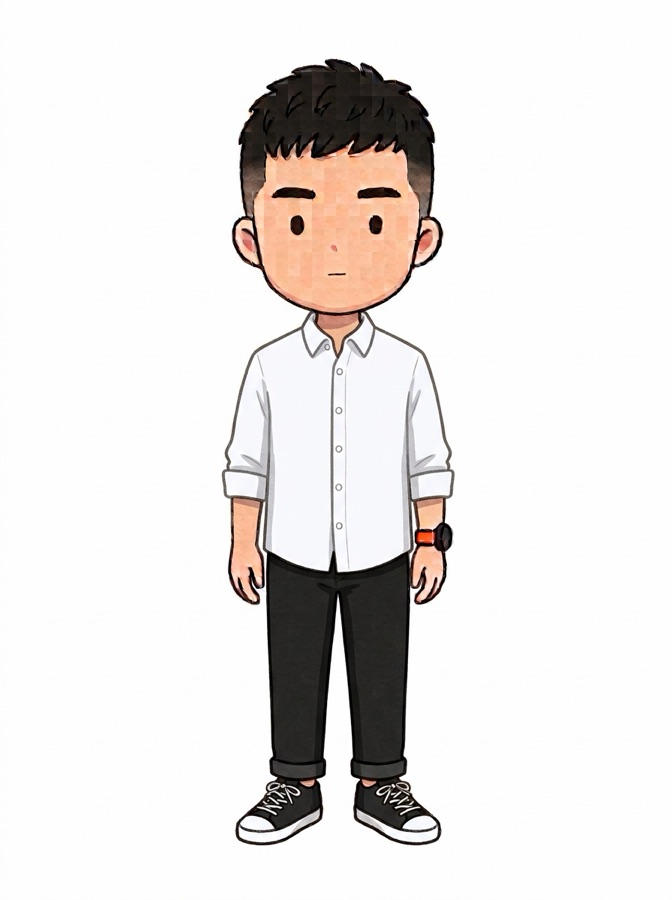
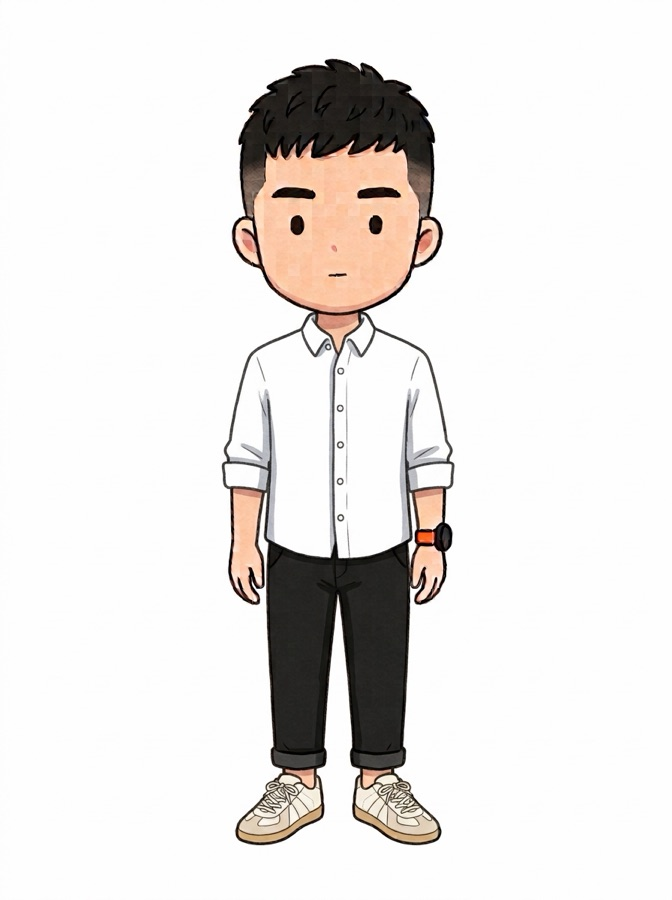
德訓鞋單品圖＋A/F/G 三套換鞋後重繪

diff --git a/index.html b/index.html
@@ -1,5 +1,5 @@
 <!doctype html>
-<html lang="zh-Hant" data-v="23">
+<html lang="zh-Hant" data-v="24">
 <head>
 <meta charset="utf-8">
 <meta name="viewport" content="width=device-width, initial-scale=1, viewport-fit=cover">
